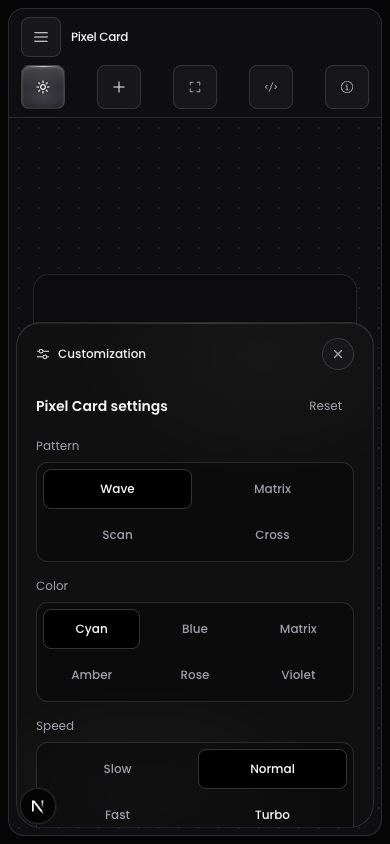
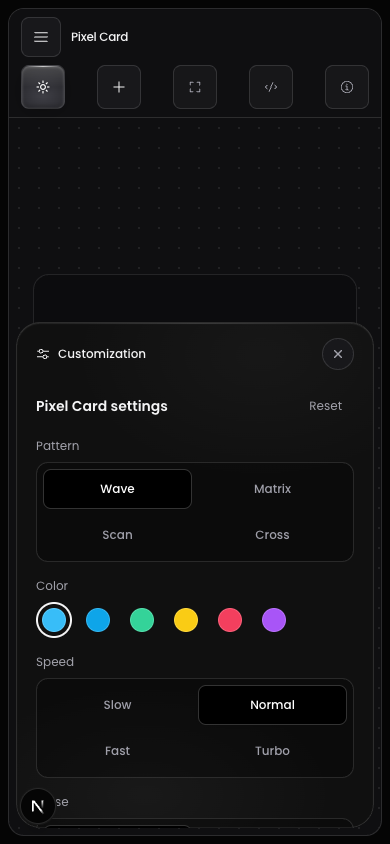
fix(studio): preserve card geometry at canvas zoom
Use layout dimensions for Pixel Card buffers and map card pointer offsets into local coordinates. Restore Pixel Card color swatches and clarify keyboard screen-to-local movement. Add 50/100/150 percent zoom regressions, refresh screenshots, and synchronize registry payloads.

diff --git a/src/registry/ui/pixel-card.tsx b/src/registry/ui/pixel-card.tsx
@@ -113,6 +113,21 @@ const VARIANTS: Record<PixelCardVariant, VariantConfig> = {
   },
 };
 
+function getPointerPosition(
+  card: HTMLDivElement,
+  event: React.MouseEvent<HTMLDivElement>,
+) {
+  const rect = card.getBoundingClientRect();
+  return {
+    x: rect.width > 0
+      ? (event.clientX - rect.left) * card.offsetWidth / rect.width
+      : 0,
+    y: rect.height > 0
+      ? (event.clientY - rect.top) * card.offsetHeight / rect.height
+      : 0,
+  };
+}
+
 export const PixelCard = React.forwardRef<HTMLDivElement, PixelCardProps>(
   (
     {
@@ -177,9 +192,8 @@ export const PixelCard = React.forwardRef<HTMLDivElement, PixelCardProps>(
       const canvas = canvasRef.current;
       if (!container || !canvas) return;
 
-      const rect = container.getBoundingClientRect();
-      const width = Math.floor(rect.width);
-      const height = Math.floor(rect.height);
+      const width = container.offsetWidth;
+      const height = container.offsetHeight;
       if (width <= 0 || height <= 0) return;
 
       const dpr = Math.min(
@@ -443,9 +457,7 @@ export const PixelCard = React.forwardRef<HTMLDivElement, PixelCardProps>(
       const card = containerRef.current;
       if (!card) return;
 
-      const rect = card.getBoundingClientRect();
-      const x = e.clientX - rect.left;
-      const y = e.clientY - rect.top;
+      const { x, y } = getPointerPosition(card, e);
 
       targetPointerRef.current.x = x;
       targetPointerRef.current.y = y;
@@ -460,8 +472,8 @@ export const PixelCard = React.forwardRef<HTMLDivElement, PixelCardProps>(
         rotYRef.current &&
         scaleRef.current
       ) {
-        const nx = (x - rect.width / 2) / (rect.width / 2);
-        const ny = (y - rect.height / 2) / (rect.height / 2);
+        const nx = x / (card.offsetWidth || 1) * 2 - 1;
+        const ny = y / (card.offsetHeight || 1) * 2 - 1;
         const clampedX = Math.max(-1, Math.min(1, nx));
         const clampedY = Math.max(-1, Math.min(1, ny));
 
@@ -477,9 +489,7 @@ export const PixelCard = React.forwardRef<HTMLDivElement, PixelCardProps>(
       const card = containerRef.current;
       if (!card) return;
 
-      const rect = card.getBoundingClientRect();
-      const x = e.clientX - rect.left;
-      const y = e.clientY - rect.top;
+      const { x, y } = getPointerPosition(card, e);
 
       pointerRef.current.x = x;
       pointerRef.current.y = y;
@@ -528,9 +538,8 @@ export const PixelCard = React.forwardRef<HTMLDivElement, PixelCardProps>(
 
       const card = containerRef.current;
       if (card) {
-        const rect = card.getBoundingClientRect();
-        const cx = rect.width / 2;
-        const cy = rect.height / 2;
+        const cx = card.offsetWidth / 2;
+        const cy = card.offsetHeight / 2;
         pointerRef.current.x = cx;
         pointerRef.current.y = cy;
         targetPointerRef.current.x = cx;

diff --git a/src/components/showcase/pixel-card-demo.tsx b/src/components/showcase/pixel-card-demo.tsx
@@ -5,6 +5,7 @@ import {
   type PixelCardPattern,
   type PixelCardVariant,
 } from "@/registry/ui/pixel-card";
+import { ColorSwatches } from "./customization-controls";
 import { SegmentedControl } from "./segmented-control";
 
 export interface PixelCardConfig {
@@ -72,14 +73,14 @@ export function PixelCardControls({
       </fieldset>
       <fieldset className="min-w-0 space-y-2">
         <legend className="mb-2 text-xs text-muted-foreground">Color</legend>
-        <SegmentedControl
+        <ColorSwatches
           options={[
-            { value: "default", label: "Cyan" },
-            { value: "blue", label: "Blue" },
-            { value: "emerald", label: "Matrix" },
-            { value: "yellow", label: "Amber" },
-            { value: "pink", label: "Rose" },
-            { value: "purple", label: "Violet" },
+            { value: "default", label: "Cyan", color: "#38bdf8" },
+            { value: "blue", label: "Blue", color: "#0ea5e9" },
+            { value: "emerald", label: "Matrix", color: "#34d399" },
+            { value: "yellow", label: "Amber", color: "#facc15" },
+            { value: "pink", label: "Rose", color: "#f43f5e" },
+            { value: "purple", label: "Violet", color: "#a855f7" },
           ]}
           value={config.variant}
           onChange={(variant) => onChange({ ...config, variant })}

diff --git a/src/components/showcase/studio-canvas.tsx b/src/components/showcase/studio-canvas.tsx
@@ -121,10 +121,12 @@ export function StudioCanvas({
       const offset = offsets[key];
       const target = mode === "move" ? componentRef.current : cameraRef.current;
       if (!offset || !target) return;
-      const step = (shift ? 50 : 10) / (mode === "move" ? zoomRef.current : 1);
+      const screenStep = shift ? 50 : 10;
+      const parentScale = mode === "move" ? zoomRef.current : 1;
+      const localStep = screenStep / parentScale;
       gsap.set(target, {
-        x: Number(gsap.getProperty(target, "x")) + offset[0] * step,
-        y: Number(gsap.getProperty(target, "y")) + offset[1] * step,
+        x: Number(gsap.getProperty(target, "x")) + offset[0] * localStep,
+        y: Number(gsap.getProperty(target, "y")) + offset[1] * localStep,
       });
       dragRef.current?.update();
       syncGrid();

diff --git a/src/registry/ui/spotlight-card.tsx b/src/registry/ui/spotlight-card.tsx
@@ -28,9 +28,17 @@ export const SpotlightCard = React.forwardRef<
     const [opacity, setOpacity] = useState(0);
 
     const handleMouseMove = (e: React.MouseEvent<HTMLDivElement>) => {
-      if (!divRef.current) return;
-      const rect = divRef.current.getBoundingClientRect();
-      setPosition({ x: e.clientX - rect.left, y: e.clientY - rect.top });
+      const card = divRef.current;
+      if (!card) return;
+      const rect = card.getBoundingClientRect();
+      setPosition({
+        x: rect.width > 0
+          ? (e.clientX - rect.left) * card.offsetWidth / rect.width
+          : 0,
+        y: rect.height > 0
+          ? (e.clientY - rect.top) * card.offsetHeight / rect.height
+          : 0,
+      });
     };
 
     const handleMouseEnter = () => {

diff --git a/test/browser/README.md b/test/browser/README.md
@@ -14,7 +14,10 @@ node test/browser/prompt-composer.mjs
 
 Run `node test/browser/component-studio.mjs` for Gooey Nav centering, component
 dragging, canvas panning, zoom/reset, keyboard movement, component switching,
-Pixel Card customization and reset, mobile layout, and reduced motion. It uses
+Pixel Card customization and reset, canvas sizing and pointer/focus alignment at
+50%, 100%, and 150% zoom, color swatches, mobile layout, and reduced motion. The
+hidden Spotlight Card's actual pointer handler is transpiled from source and
+checked against scaled browser geometry without adding a public route. It uses
 the same environment variables below and optionally saves `studio-mobile.png`.
 
 If Playwright is supplied by your environment rather than installed in this

diff --git a/README.md b/README.md
@@ -54,6 +54,10 @@ Pan mode, drag the canvas or use the arrow keys (Shift for larger steps); Escape
 returns to Interact. Click the zoom percentage to reset position and zoom. The
 customization button opens the shared controls, including Pixel Card settings.
 
+Keyboard movement covers 10 screen pixels per arrow press, or 50 with Shift.
+Moving a component divides this distance by its parent's zoom scale; panning
+moves the camera outside that scale, so it uses the screen distance directly.
+
 ## Quick start
 
 You need a React project with Tailwind CSS and the `@/` import alias. The [installation guide](https://ui.devclubxnst.com/docs/installation) covers setup and manual installation.
